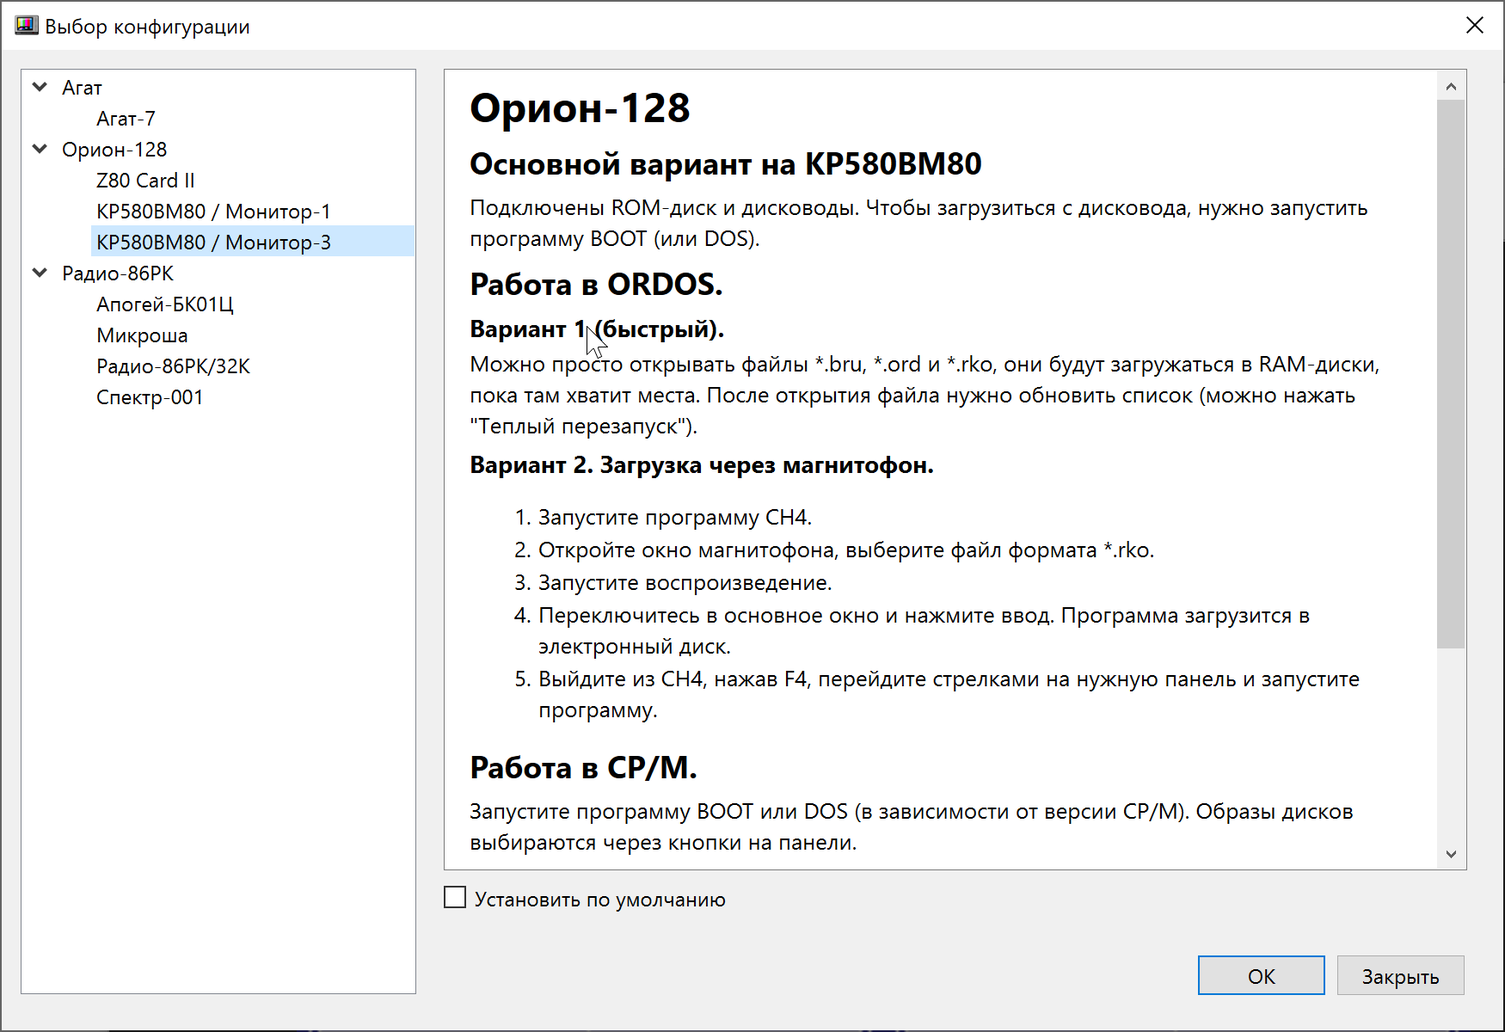
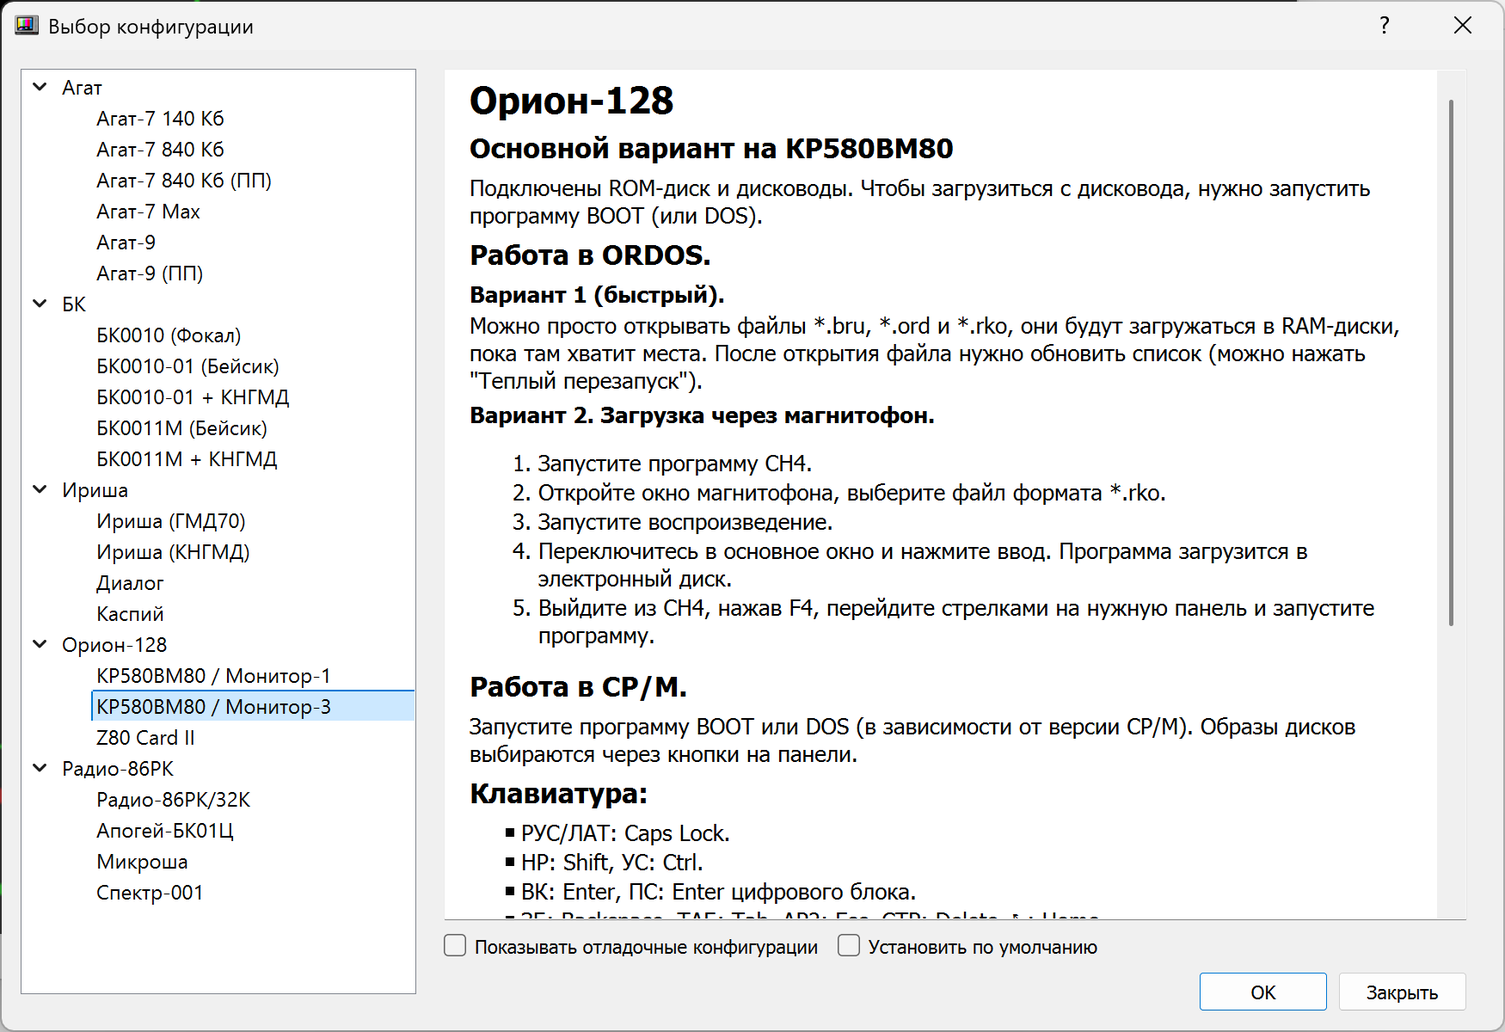
docs update

diff --git a/MANUAL.md b/MANUAL.md
@@ -19,25 +19,31 @@
 
 ## Установка программы
 
+### Онлайн-версия
+* Ничего устанавливать не нужно, откройте в браузере адрес https://ecat.emuverse.ru
+
 ### Windows
-* Скачайте архив из раздела [Releases](../../releases). Для Windows 7 используйте 32-битный файл с индексом `i386`, для Windows 10+ &mdash; 64-разрядный `x86_64`.
-* Для Windows 7+ доступны варианты с аппаратным выводом видео `SDL2` (предпочтительный) и программный `Qt` (сильнее нагружает процессор). 
-* Для Windows 10+ доступны варианты `SDL2` (аппаратный, стабильный), `Qt` (программный, сильнее грузит процессор), `opengl` (аппаратный, экспериментальный, предпочтительный).
+* Скачайте архив из раздела [Releases](../../releases). Для Windows XP и 7 используйте 32-битный файл с индексом `i386`, для Windows 10+ &mdash; 64-разрядный `x86_64`.
+* Для Windows XP и 7 доступны варианты с аппаратным выводом видео `SDL2` (предпочтительный) и программный `Qt` (сильнее нагружает процессор). 
+* Для Windows 10+ доступны варианты `opengl` (аппаратный, предпочтительный) и `Qt` (программный).
 * Распакуйте архив и запустите ecat3.exe.
 
 ### macOS
 
-* Скачайте файл dmg из раздела [Releases](../../releases). Доступны два варианта вывода видео &mdash; `Qt` (программный, сильнее грузит процессор), `opengl` (аппаратный, экспериментальный, предпочтительный). Вариант SDL2 сейчас исключен из-за проблем с меню приложения при встраивании экрана в главное окно. 
-* Скачайте библиотеку SDL (нужна для работы со звуком) **2-й версии** (важно!) из её [репозитория](https://github.com/libsdl-org/SDL/releases). Используйте файл dmg.
-* Откройте dmg-файл библиотеки и перетащите иконку SDL2.framework в системную папку `/Library/Frameworks`.
-* Откройте dmg-файл программы. При первом запуске система сообщит, что запретила выполнение библиотеки SDL. Перейдите в системные настройки ОС, раздел Безопасность, и разрешите использование библиотеки.
-* Запустите программу еще раз. При необходимости подтвердите разрешение в открывшемся окне.
+* Скачайте файл dmg из раздела [Releases](../../releases). Доступны два варианта вывода видео &mdash; `Qt` (программный, сильнее грузит процессор), `opengl` (аппаратный, предпочтительный).  
+* Откройте dmg-файл. Он подключится как диск `eCat3`, на котором лежат программа `eCat3`, ярлык папки &laquo;Программы&raquo; (`Applications`) и папка `software` с образами дисков, лент и программ для всех машин.
+* Перетащите значок `eCat3` на ярлык `Applications`, после этого программу можно запускать из Launchpad или папки &laquo;Программы&raquo;. Запустить её можно и прямо с диска, но после его отключения программа будет недоступна.
+* Скопируйте папку `software` в удобное место, например в &laquo;Документы&raquo;. Диск dmg доступен только для чтения, поэтому изменения в образах с него не сохраняются, а после отключения диска его файлы пропадают из окна открытия файлов.
 
 ### Linux
 
 * Скачайте файл `ecat-4.X.X-linux-x86_64-XXX.AppImage` из раздела [Releases](../../releases),
-* Доступны варианты вывода видео `SDL2` (аппаратный), `Qt` (программный, сильнее грузит процессор), `opengl` (аппаратный, предпочтительный).
-* Сделайте файл исполняемым и запустите.
+* Доступны варианты вывода видео `Qt` (программный, сильнее грузит процессор), `opengl` (аппаратный, предпочтительный).
+* Сделайте файл исполняемым (`chmod +x ecat-*.AppImage` или флажок &laquo;Разрешить выполнение&raquo; в свойствах файла) и запустите.
+* Для запуска AppImage нужна библиотека FUSE 2. Если при запуске появляется ошибка о FUSE, установите пакет `libfuse2` (в Ubuntu 24.04 &mdash; `libfuse2t64`) или запускайте файл с ключом `--appimage-extract-and-run`.
+* AppImage &ndash; это сжатый образ, доступный только для чтения. Образы дисков, лент и программ для всех машин лежат внутри него, и окно открытия файлов в первый раз показывает именно их. Образ подключается во временную папку с каждый раз новым именем, поэтому в следующий запуск эмулятор уже не найдет эту папку, а изменения в образах оттуда не сохраняются.
+* Чтобы работать с файлами было удобно, распакуйте AppImage: `./ecat-*.AppImage --appimage-extract`. Появится папка `squashfs-root`, программа запускается файлом `squashfs-root/AppRun`, а образы лежат в `squashfs-root/usr/share/ecat/software`. Эту папку можно скопировать в удобное место, например в `~/Documents`.
+* Настройки хранятся в файле `~/.config/ecat.ini`.
 
 ## Главное окно
 <p align="center">
@@ -57,23 +63,21 @@
 
 Если перед нажатием __&laquo;ОК&raquo;__ отметить флажок __&laquo;Установить по умолчанию&raquo;__, данная машина будет открываться по умолчанию при следующем запуске эмулятора.
 
-### Перезагрузка
+Флажок __&laquo;Показывать отладочные конфигурации &raquo;__ добавляет в список тестовые конфигурации, у которых параметр __debug__ установлен в 1.
+
+### Перезагрузка и останов
 
 * Холодный перезапуск (с очисткой памяти) с помощью кнопки <img src="src/resources/icons/power.png" width="30"> или соответствующего пункта меню &laquo;Эмуляция&raquo;.
 * Теплый перезапуск (без очистки памяти) с помощью кнопки <img src="src/resources/icons/reload.png" width="30"> или соответствующего пункта меню &laquo;Эмуляция&raquo;.
+* Останов/запуск с помощью кнопок <img src="src/resources/icons/player_pause.png" width="30"> и <img src="src/resources/icons/player_play.png" width="30">.
 
 ### Экранная клавиатура
 
 Кнопка <img src="src/resources/icons/keyboard.png" width="30"> на панели и пункт &laquo;Эмуляция / Клавиатура&raquo; открывают окно с рисунком клавиатуры целевой машины. Оно появляется только у машин, для которых такой рисунок подготовлен.
 
-Окно работает в обе стороны: клавиши подсвечиваются, когда их нажимают &ndash; с обычной клавиатуры, из сценария или снаружи через MCP, &ndash; а щелчок мышью по нарисованной клавише отправляет ее в машину. Нажимается именно та клавиша, которая нарисована, поэтому щелчок по букве дает букву независимо от того, в какой раскладке стоит клавиатура компьютера.
-
-Клавиши-защелки (РУС и ЛАТ, ЗАГЛ и СТР у БК) удерживать не нужно: машина хранит их состояние сама, и на рисунке подсвечена та из пары, которая включена сейчас. Клавиши-модификаторы, которые на настоящей машине держат нажатыми (у БК это клавиша нижнего регистра со стрелкой вниз, СУ и АР2), залипают по щелчку и отпускаются повторным: у мыши и у пальца одна точка касания, двух клавиш сразу не нажать. Пока модификатор нажат, он подсвечен. С клавиатуры компьютера у БК нижний регистр, СУ и АР2 нажимаются клавишами Shift, Ctrl и Alt.
-
-Окно тянется за край: рисунок векторный, поэтому остается резким на любом размере, а пропорции
-клавиатуры окно держит само. Выбранная ширина запоминается до следующего запуска.
-
-Щелчки записываются в сценарий наравне с остальными действиями.
+Клавиши-защелки (РУС и ЛАТ, ЗАГЛ и СТР у БК) подсвечиваются автоматически. 
+Клавиши-модификаторы, которые на настоящей машине держат нажатыми 
+(нижний регистр, СУ и т. д.), залипают по щелчку и отпускаются повторным.
 
 ### Запись действий
 
@@ -111,7 +115,7 @@
 
 В моменты обращения компьютера к диску стрелка на иконке становится красной: <img src="src/resources/icons/5floppy_access.png" width="30">
 
-Примечание: возможность сохранения образа в различные форматы зависит от выбранного компьютера. В частности, для компьютера &laquo;Агат&raquo; пока есть возможность сохранения только в физическом формате MFM.
+Примечание: возможность сохранения образа в различные форматы зависит от выбранного компьютера. 
 
 ### Загрузка с магнитофона
 

diff --git a/MANUAL_online.md b/MANUAL_online.md
@@ -1,0 +1,43 @@
+# Руководство пользователя online-версии
+
+Версия доступна по адресу [https://ecat.emuverse.ru](https://ecat.emuverse.ru). 
+
+При первом заходе на страницу требуется кликнуть по окну либо нажать любую клавишу&nbsp;&mdash; это требование браузера, иначе не будет работать звук.
+
+<p align="center">
+<img src="screenshots/main_online.png" width="800">
+</p>
+
+### Левая колонка
+
+Управление эмулятором.
+
+* Выбор компьютера. Кнопка информации о компьютере.
+* Перезапуск по питанию (полный сброс машины). Дискеты в дисководах сохраняются.
+* Теплый перезапуск.
+* Масштаб экрана.
+* Соотношение сторон экрана и режим сглаживания.
+* Громкость звука.
+* Язык интерфейса.
+
+Рядом с заголовком есть кнопка 🔗, которая копирует в буфер обмена ссылку на текущую конфигурацию (выбранный компьютер, режим экрана, клавиатура). Загруженные диски не сохраняются!
+
+### Средняя колонка
+* Экран компьютера.
+* Виртуальная клавиатура (если включена).
+
+### Правая колонка
+
+Управление выбранным компьютером. 
+Набор элементов зависит от конкретной конфигурации и может включать:
+
+* Кнопку прямой загрузки файла в память.
+* Переключение типа видеовыхода (например, Ч/Б или цветной).
+* Блок управления дисководами.
+* Блок управления магнитофоном.
+* Кнопку включения виртуальной клавиатуры и движок её размера.
+
+### Строка статуса
+
+Копирайт, состояние эмулятора, версия и полезные ссылки.
+

diff --git a/BUILD.md b/BUILD.md
@@ -292,7 +292,7 @@ cmake и ninja должны быть в PATH (см. п. 1).
 ---
 ## WebAssembly (браузер)
 
-Сборка для браузера не пользуется Qt вовсе: в неё идёт только Qt-независимое
+Сборка для браузера не использует Qt: в неё идёт только Qt-независимое
 ядро эмулятора (`src/emulator/`) плюс страница и склейка из `src/wasm/`.
 Поэтому и цепочка тут своя — Emscripten, — и результат не выпуск, а **пакет
 для выкладки**: каталог со статикой, который кладётся в корень сайта как
@@ -332,17 +332,15 @@ build-wasm.cmd          # под Unix: ./build-wasm.sh
 
 ### 3. Выкладка
 
-**Двух заголовков не миновать.** Эмулятор собран с потоками (`-pthread`), а
-`SharedArrayBuffer` доступен только на изолированном происхождении:
+Эмулятор собран с потоками (`-pthread`), а`SharedArrayBuffer` доступен 
+только на изолированном происхождении, поэтому обязательна установка следующих заголовков:
 
 ```
 Cross-Origin-Opener-Policy: same-origin
 Cross-Origin-Embedder-Policy: require-corp
 ```
 
-Без них страница загрузится и молча встанет на инициализации модуля. Из
-файловой системы (`file://`) она не заведётся вовсе. Готовый пример
-настройки nginx с пояснениями лежит в самом пакете
+Готовый пример настройки nginx с пояснениями лежит в самом пакете
 (`nginx.conf.example`), исходники — в `.build/web/`.
 
 Для пробы на своей машине:
